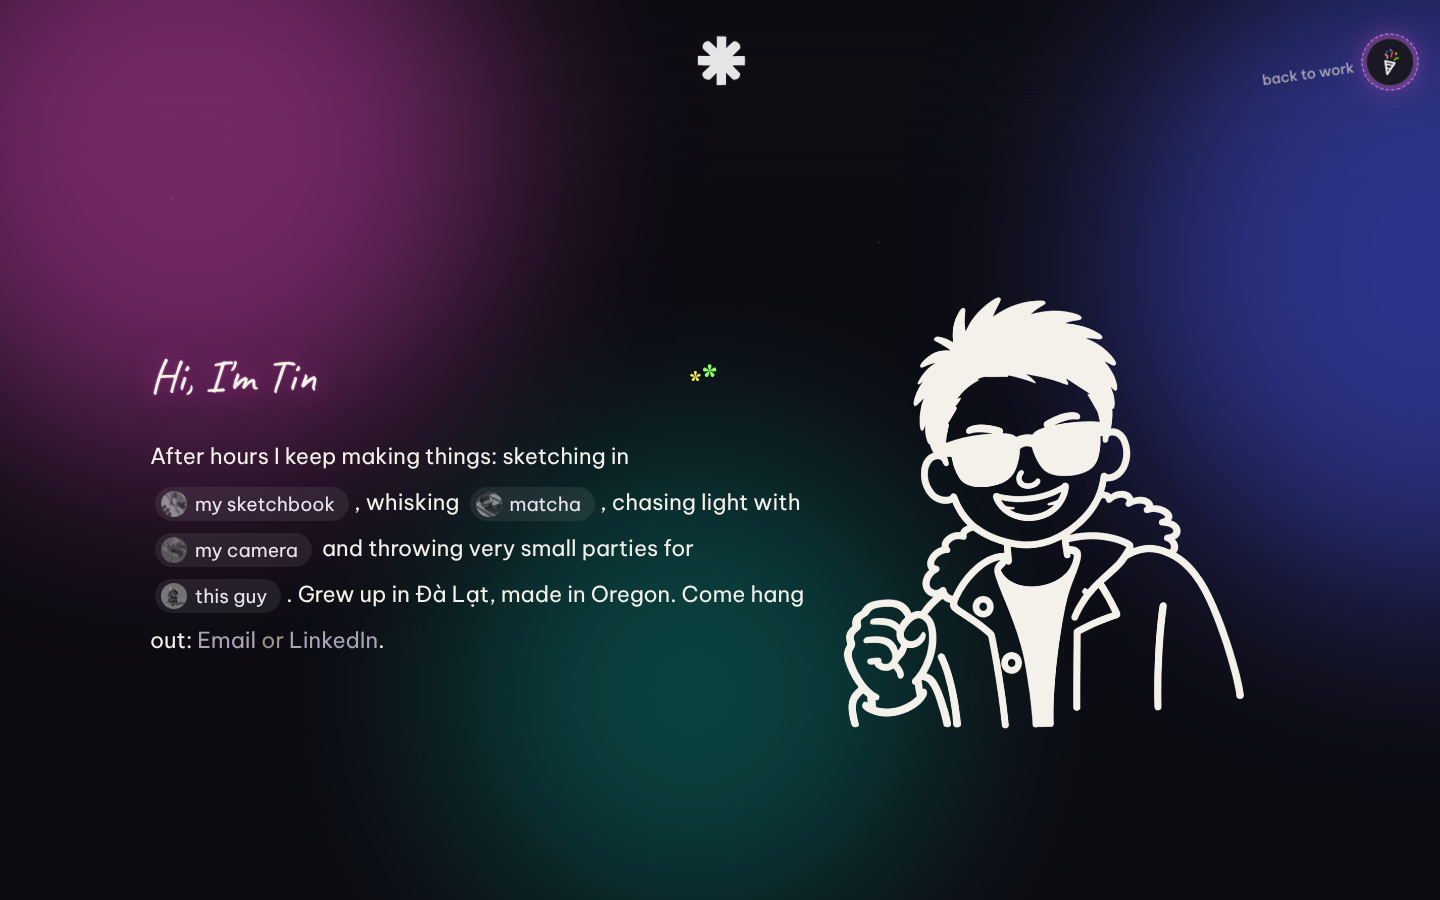
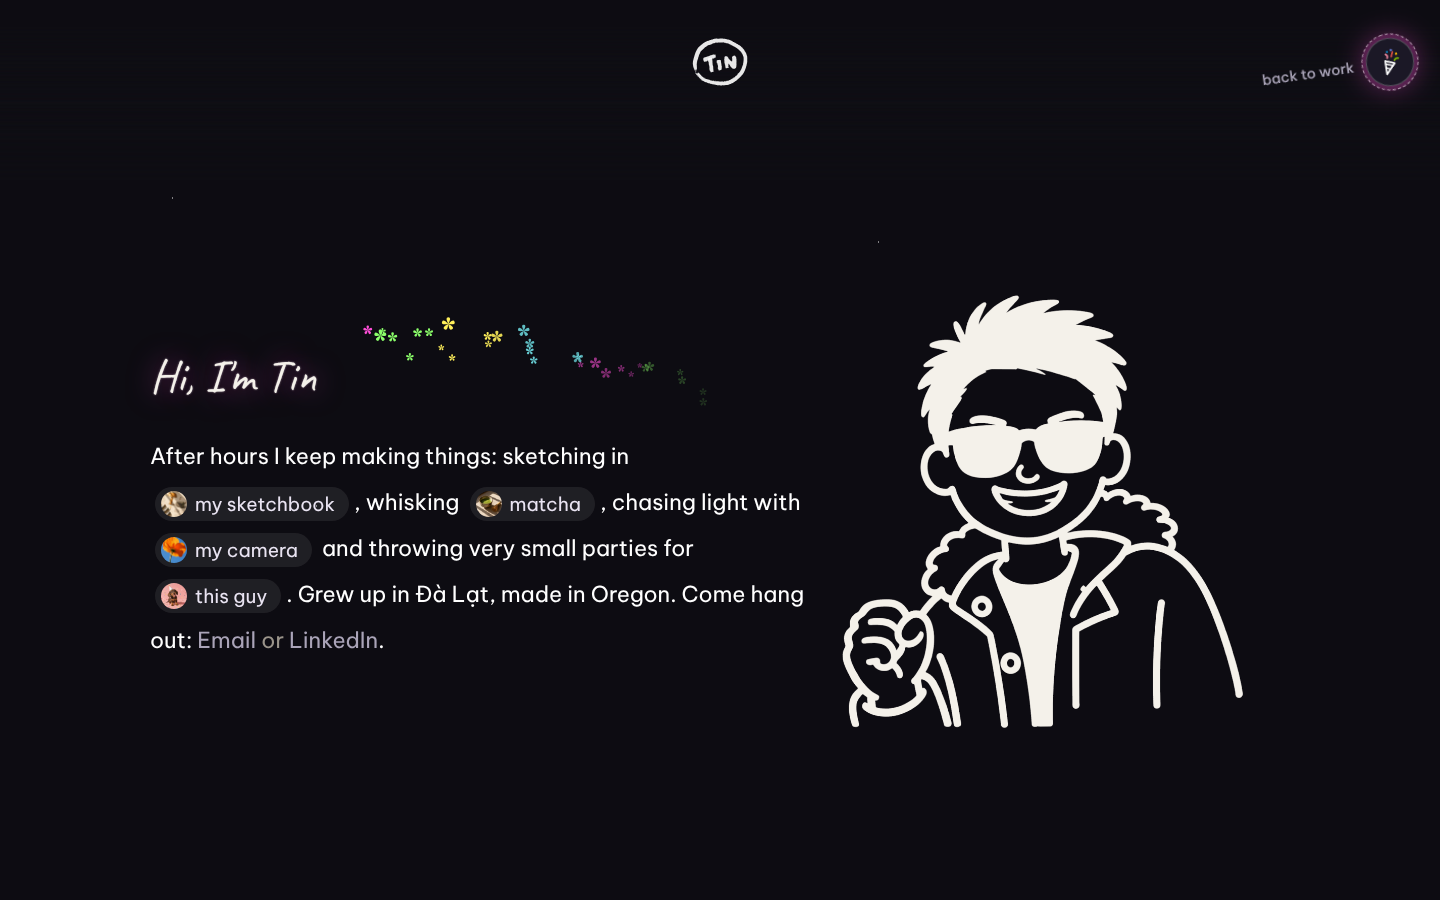
Party mode: drop the neon gradient, white after-hours text, color photo pills
Claude-Session: https://claude.ai/code/session_014PJDPx1vavpf8H6JAWoaqx

diff --git a/canvas/project/TinHome-Party-Desktop.dc.html b/canvas/project/TinHome-Party-Desktop.dc.html
@@ -140,6 +140,9 @@ sc-for, sc-if { display: contents; }
 /* neon light in the hero */
 .th-pglow{position:absolute;top:0;left:0;right:0;height:1100px;z-index:-1;pointer-events:none;opacity:0;transition:opacity 1.4s ease;overflow:hidden}
 .party .th-pglow{opacity:1}
+.th-pglow i{display:none} /* no gradient in party mode, just the stars */
+.th-pp .lg{filter:none !important}
+.party .th-prose,.party .th-prose span:not([style*="color: #9a948a"]){color:#ffffff !important}
 .th-pglow i{position:absolute;border-radius:50%;filter:blur(90px);animation:pgDrift 10s ease-in-out infinite alternate}
 .th-pglow i:nth-child(1){width:520px;height:520px;background:#ff4fd8;opacity:.42;left:-160px;top:-180px}
 .th-pglow i:nth-child(2){width:560px;height:560px;background:#4d5bff;opacity:.5;right:-200px;top:-80px;animation-duration:12s;animation-delay:-4s}

diff --git a/canvas/project/TinHome-Party.dc.html b/canvas/project/TinHome-Party.dc.html
@@ -176,6 +176,9 @@ sc-for, sc-if { display: contents; }
 /* neon light in the hero */
 .th-pglow{position:absolute;top:0;left:0;right:0;height:1100px;z-index:-1;pointer-events:none;opacity:0;transition:opacity 1.4s ease;overflow:hidden}
 .party .th-pglow{opacity:1}
+.th-pglow i{display:none} /* no gradient in party mode, just the stars */
+.th-pp .lg{filter:none !important}
+.party .th-prose,.party .th-prose span:not([style*="color: #9a948a"]){color:#ffffff !important}
 .th-pglow i{position:absolute;border-radius:50%;filter:blur(90px);animation:pgDrift 10s ease-in-out infinite alternate}
 .th-pglow i:nth-child(1){width:520px;height:520px;background:#ff4fd8;opacity:.42;left:-160px;top:-180px}
 .th-pglow i:nth-child(2){width:560px;height:560px;background:#4d5bff;opacity:.5;right:-200px;top:-80px;animation-duration:12s;animation-delay:-4s}

diff --git a/prototype/party/make_party.py b/prototype/party/make_party.py
@@ -69,6 +69,9 @@ CSS = r'''
 /* neon light in the hero */
 .th-pglow{position:absolute;top:0;left:0;right:0;height:1100px;z-index:-1;pointer-events:none;opacity:0;transition:opacity 1.4s ease;overflow:hidden}
 .party .th-pglow{opacity:1}
+.th-pglow i{display:none} /* no gradient in party mode, just the stars */
+.th-pp .lg{filter:none !important}
+.party .th-prose,.party .th-prose span:not([style*="color: #9a948a"]){color:#ffffff !important}
 .th-pglow i{position:absolute;border-radius:50%;filter:blur(90px);animation:pgDrift 10s ease-in-out infinite alternate}
 .th-pglow i:nth-child(1){width:520px;height:520px;background:#ff4fd8;opacity:.42;left:-160px;top:-180px}
 .th-pglow i:nth-child(2){width:560px;height:560px;background:#4d5bff;opacity:.5;right:-200px;top:-80px;animation-duration:12s;animation-delay:-4s}
